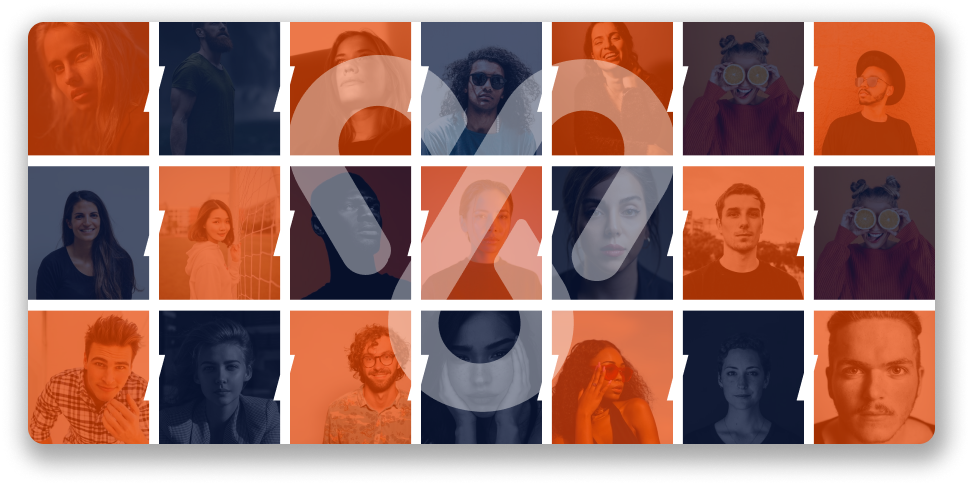
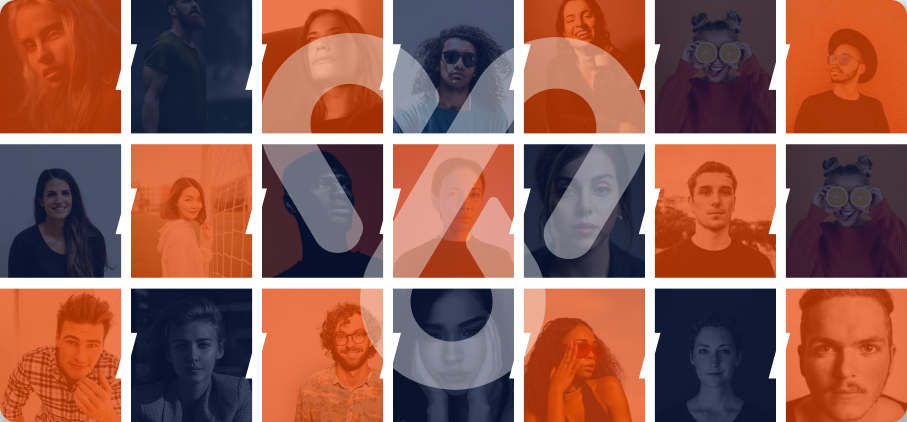
brand section finish with out shadow in image

diff --git a/pages/corporations/index.tsx b/pages/corporations/index.tsx
@@ -91,16 +91,18 @@ export default function CorporationsHome() {
                               min-w-280px t:max-w-708px d:max-w-1140px"
           >
             More brands are trying to connect with the younger generation...
-            while they want to work for and support social concious brands
+            while they want to work for and support social conscious brands
           </div>
 
-          <div id="brands"
+          <div
+            id="brands"
             className="min-w-280px t:max-w-708px d:max-w-907px 
-            flex-1 flex flex-col t:flex-row t:justify-between 
-                        items-center text-center 
-                              text-13px leading-16-9px
-                              d:text-16px d:leading-24px
-                              "
+                      flex-1 flex flex-col t:flex-row  t:gap-39px d:gap-100px
+                      items-center text-center 
+                      text-13px leading-16-9px
+                      d:text-16px d:leading-24px
+                      -mb-11px t:-mb-74px d:-mb-22px
+                      "
           >
             <div>
               <Image
@@ -130,7 +132,7 @@ export default function CorporationsHome() {
                 {/*max-w-280px t:max-w-210px d:max-w-236px text-center */}
                 of GenZers value and would prefer to buy from brands that are{" "}
                 <span className="font-bold">eco-friendly</span> and that are
-                socially responsible
+                <span className="font-bold">socially responsible</span>
               </div>
             </div>
             <div>
@@ -151,13 +153,14 @@ export default function CorporationsHome() {
               </div>
             </div>
           </div>
-
           <div
-            className="min-w-280px t:max-w-708px d:max-w-907px border-4 border-black-900
+            className="min-w-280px t:max-w-708px d:max-w-907px 
           transform translate-y-35px t:translate-y-111px d:translate-y-95px"
           >
             <div aria-hidden className="flex-1">
-              <Image
+              {/*shadow-4-10-24-8*/}
+              <Image 
+                className="rounded-16pxi"
                 alt=""
                 src="/images/corporations/shape.png"
                 width={907}
@@ -239,6 +242,7 @@ export default function CorporationsHome() {
                              d:w-367px d:h-369px"
               >
                 <Image
+                  alt=""
                   src="/images/corporations/corporate-profile.png"
                   width={69}
                   height={60}

diff --git a/tailwind.config.js b/tailwind.config.js
@@ -35,7 +35,8 @@ module.exports = {
         "8pxi": "8px !important",
         "10px": "10px",
         "10pxi": "10px !important",
-        "16px": "16px !important",
+        "16px": "16px",
+        "16pxi": "16px !important",
         "20px": "20px",
         "20pxi": "20pxi",
         "24px": "24px",
@@ -90,6 +91,7 @@ module.exports = {
         "0-6-24": "0 6px 24px rgba(0, 0, 0, 0.12)",
         "2-5-15": "2px 5px 15px rgba(0, 0, 0, 0.28)",
         "0-2-5": "0px 2px 5px rgba(0, 0, 0, 0.25)",
+        "4-10-24-8": "4px 10px 24px 8px rgba(0, 0, 0, 0.35)",
       },
       spacing: {},
       width: {},
